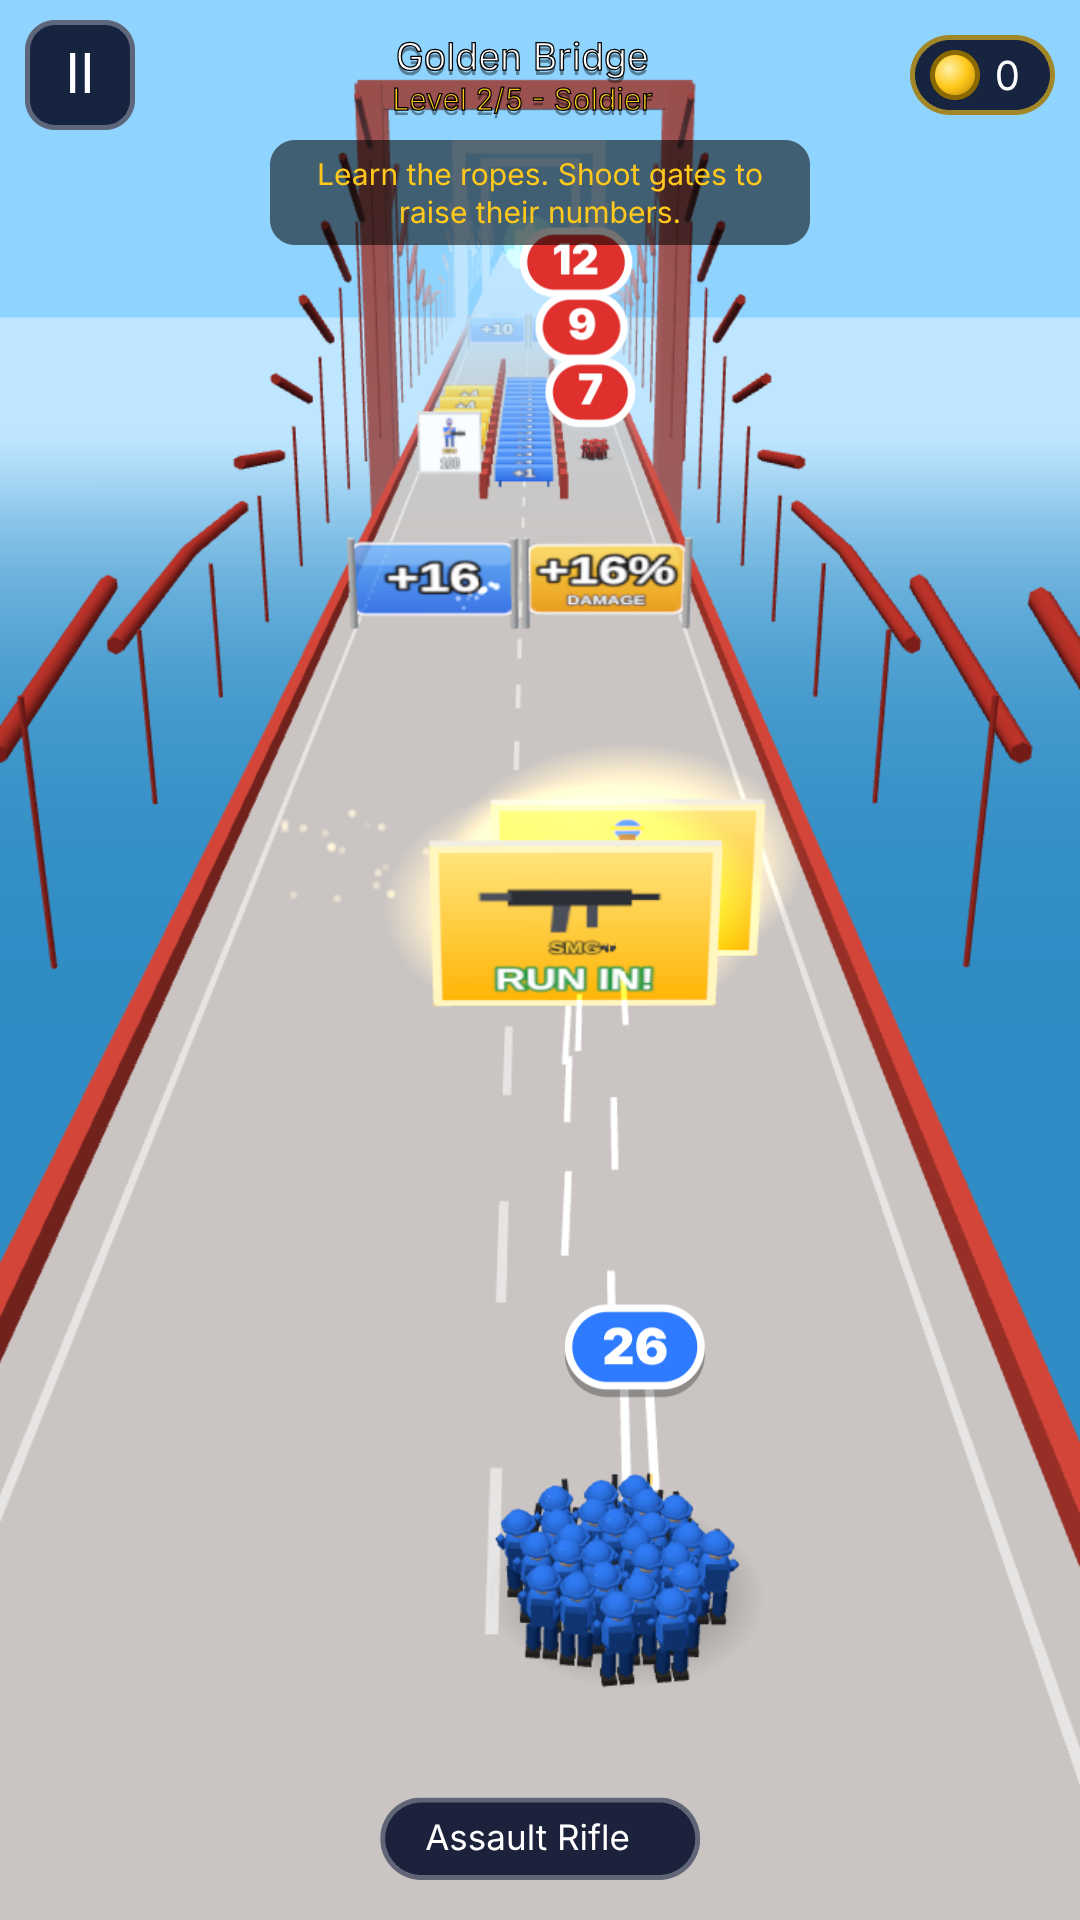
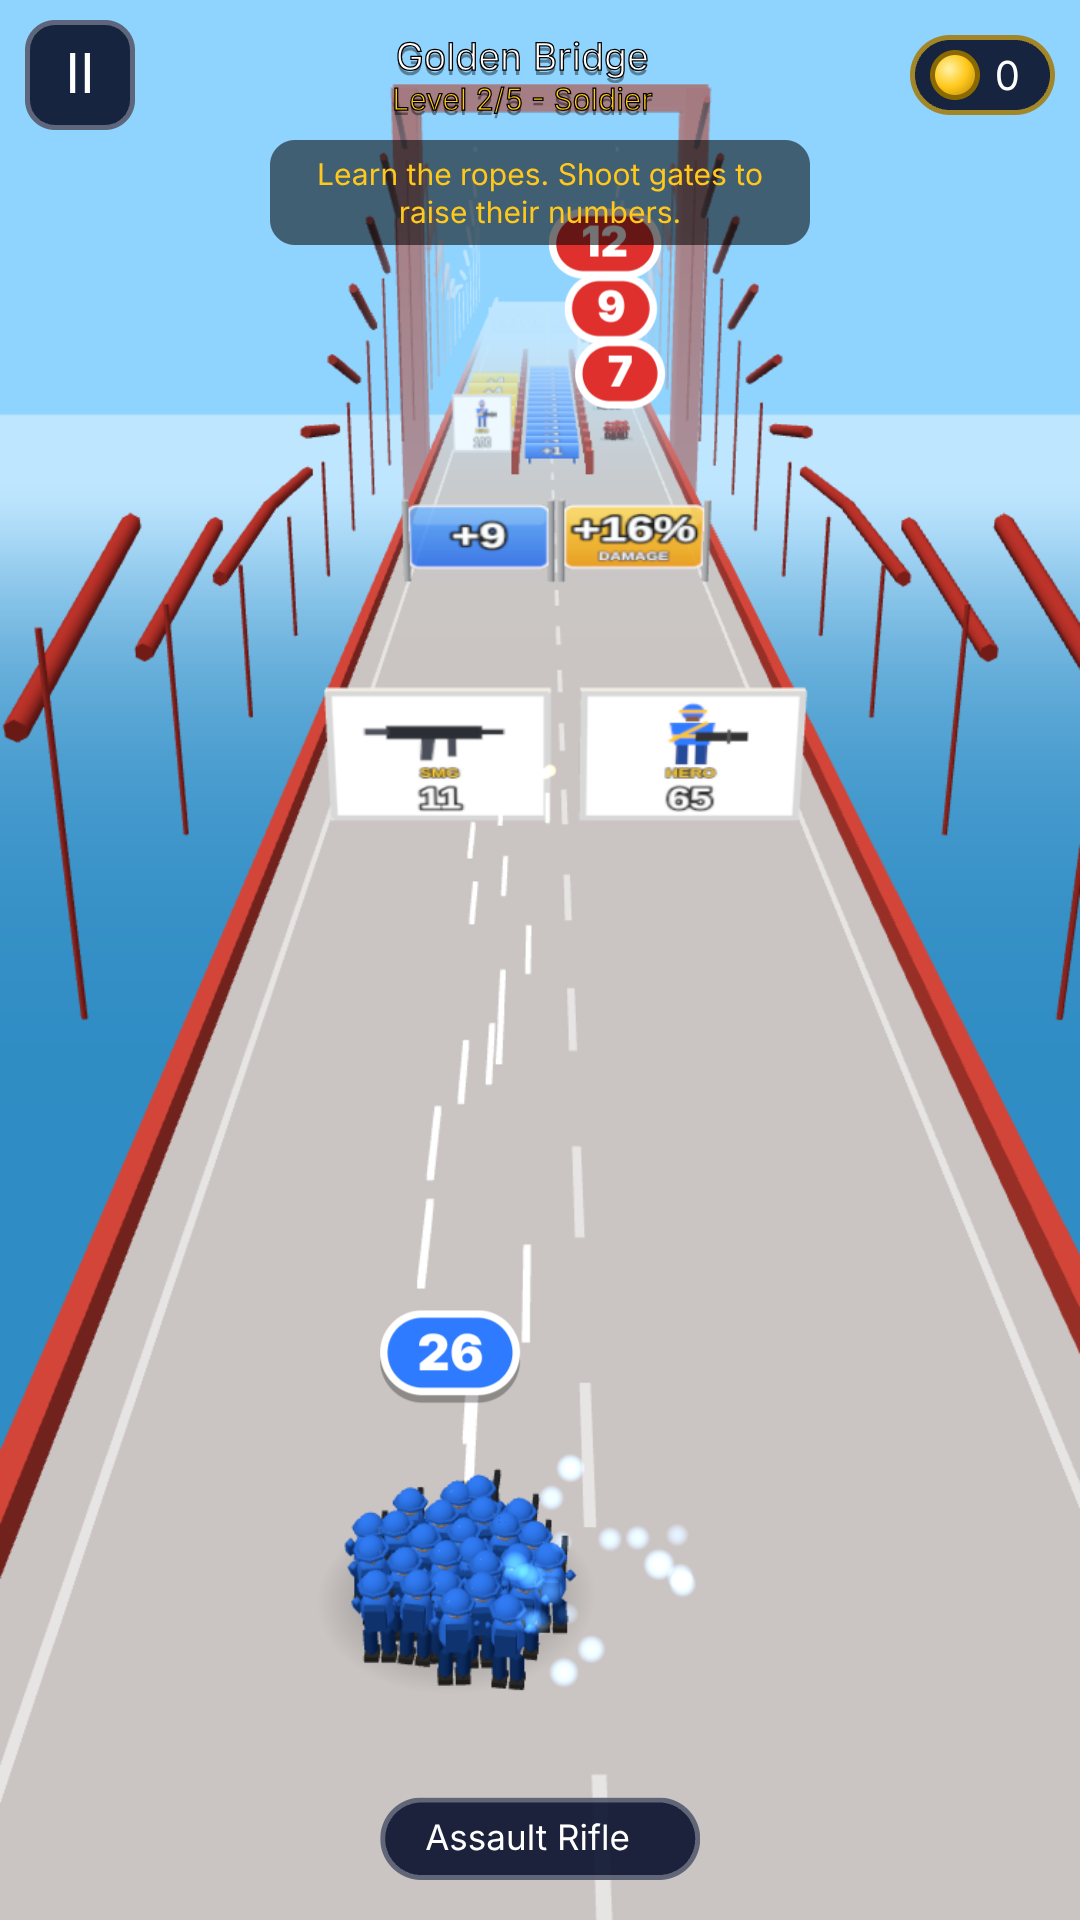
Army Rush: rendering performance pass
- Don't draw entities beyond the fog; camera far plane follows the fog
- Textured boxes (boards, walls, +N blocks) use 2 draw calls instead of 6
- Slightly shorter fog on the three longest-view worlds
- Measured in headless Chromium: 51-113 draw calls per frame (was 248-393)
- Refreshed store screenshots; PLAY button text when everything is cleared

Claude-Session: https://claude.ai/code/session_014WJcLgqD5bPw1zJdrNBbJ9

diff --git a/game/src/render.js b/game/src/render.js
@@ -62,6 +62,21 @@ function soldierGeometries() {
   return { tinted, fixed };
 }
 
+// A box whose +z face shows a texture: 2 draw calls (sides + front) instead of the 6 that a
+// six-material box costs. Index order is rebuilt so the front face is one group at the end.
+function frontBox(w, h, d, sideMat, frontMat) {
+  const g = new THREE.BoxGeometry(w, h, d);
+  const idx = g.index.array;
+  const order = [0, 1, 2, 3, 5, 4]; // px, nx, py, ny, nz, then pz (front)
+  const out = [];
+  for (const f of order) for (let i = 0; i < 6; i++) out.push(idx[f * 6 + i]);
+  g.setIndex(out);
+  g.clearGroups();
+  g.addGroup(0, 30, 0);
+  g.addGroup(30, 6, 1);
+  return new THREE.Mesh(g, [sideMat, frontMat]);
+}
+
 function textCanvas(w, h) {
   const c = document.createElement('canvas');
   c.width = w;
@@ -184,6 +199,10 @@ export class Renderer {
     const scene = this.scene;
     scene.background = new THREE.Color(world.sky);
     scene.fog = new THREE.Fog(world.fog, world.fogNear, world.fogFar);
+    // nothing past the fog is visible, so don't draw it (big draw-call saving on phones)
+    this.viewDist = Math.min(world.fogFar + 10, 200);
+    this.camera.far = this.viewDist + 40;
+    this.camera.updateProjectionMatrix();
     const hemi = new THREE.HemisphereLight(0xffffff, 0x556070, 1.5 * world.light);
     const sun = new THREE.DirectionalLight(0xfff4e0, 1.9 * world.light);
     sun.position.set(-5, 12, 4);
@@ -329,7 +348,7 @@ export class Renderer {
         const tex = new THREE.CanvasTexture(canvas);
         tex.colorSpace = THREE.SRGBColorSpace;
         const side = new THREE.MeshLambertMaterial({ color: 0xf2f2f2 });
-        const panel = new THREE.Mesh(new THREE.BoxGeometry(w - 0.3, 3.2, 0.3), [side, side, side, side, new THREE.MeshBasicMaterial({ map: tex }), side]);
+        const panel = frontBox(w - 0.3, 3.2, 0.3, side, new THREE.MeshBasicMaterial({ map: tex }));
         panel.position.set(cx, 1.65, 0);
         g.add(panel);
         Object.assign(v, { canvas, tex, panel, cx });
@@ -372,7 +391,7 @@ export class Renderer {
         tex.colorSpace = THREE.SRGBColorSpace;
         const col = { temple: 0x7a6e58, frozen: 0xbfe6ff, volcano: 0x4a3530, neon: 0x3a3456, lunar: 0x7a7c86, desert: 0xb27a42 }[world.props] || 0x9a8a7a;
         const sideMat = new THREE.MeshLambertMaterial({ color: col });
-        const wall = new THREE.Mesh(new THREE.BoxGeometry(w, 2.2, 1), [sideMat, sideMat, sideMat, sideMat, new THREE.MeshBasicMaterial({ map: tex }), sideMat]);
+        const wall = frontBox(w, 2.2, 1, sideMat, new THREE.MeshBasicMaterial({ map: tex }));
         wall.position.set(cx, 1.1, 0);
         g.add(wall);
         Object.assign(v, { canvas, tex, wallColor: col, cx });
@@ -402,7 +421,7 @@ export class Renderer {
         });
         const sideMat = new THREE.MeshLambertMaterial({ color: e.big ? 0xf2b400 : 0x2a6af0 });
         const h = e.big ? 1.3 : 0.85;
-        const m = new THREE.Mesh(new THREE.BoxGeometry(w, h, 0.35), [sideMat, sideMat, sideMat, sideMat, new THREE.MeshBasicMaterial({ map: tex }), sideMat]);
+        const m = frontBox(w, h, 0.35, sideMat, new THREE.MeshBasicMaterial({ map: tex }));
         m.position.set(cx, h / 2 + 0.25, 0);
         const legs = new THREE.Mesh(mergeGeometries([
           new THREE.BoxGeometry(0.12, 0.3, 0.5).translate(cx - w / 2 + 0.25, 0.15, 0),
@@ -922,7 +941,7 @@ export class Renderer {
     for (const v of this.views.values()) {
       const e = v.e;
       const dz = -e.d - camZ;
-      const inView = dz < 25 && dz > -200;
+      const inView = dz < 25 && dz > -this.viewDist;
       if (e.type === 'squad') {
         const show = e.alive && inView;
         if (show) this.placeLabel(v.label, e.x, 1.4 + armyRadius(e.m) * 0.3, -e.d, fmt(e.m), true);
@@ -975,6 +994,7 @@ export class Renderer {
           v.label.classList.toggle('open', !!e.unlocked);
         } else v.label.style.display = 'none';
       }
+      v.g.visible = inView;
       if (!inView) continue;
       if (e.dirty && t - (v.lastDraw || 0) > 0.08) {
         e.dirty = false;

diff --git a/game/src/data.js b/game/src/data.js
@@ -21,7 +21,7 @@ export const weaponDps = (w) => w.dmg * w.rate * (w.pellets || 1) * (1 + (w.pier
 export const WORLDS = [
   {
     id: 'bridge', name: 'Golden Bridge', tagline: 'Storm the great red bridge',
-    sky: 0x8fd3ff, fog: 0xbfe6ff, fogNear: 60, fogFar: 230, ground: 0x2f8fd0, track: 0xc9c9cf, rail: 0xd2463c,
+    sky: 0x8fd3ff, fog: 0xbfe6ff, fogNear: 55, fogFar: 185, ground: 0x2f8fd0, track: 0xc9c9cf, rail: 0xd2463c,
     light: 1.0, props: 'bridge', enemy: 0xe0302e, boss: { name: 'Red Brute', color: 0xd0302a, accent: 0x6b1b17, eye: 0xffee55, horns: false, mech: false },
     mod: {}, desc: 'Learn the ropes. Shoot gates to raise their numbers.',
   },
@@ -57,13 +57,13 @@ export const WORLDS = [
   },
   {
     id: 'sky', name: 'Sky Fortress', tagline: 'Crosswinds push you around',
-    sky: 0x6fb6ff, fog: 0xdcefff, fogNear: 50, fogFar: 220, ground: 0xffffff, track: 0xb6b2a8, rail: 0xe0c060,
+    sky: 0x6fb6ff, fog: 0xdcefff, fogNear: 45, fogFar: 185, ground: 0xffffff, track: 0xb6b2a8, rail: 0xe0c060,
     light: 1.1, props: 'sky', enemy: 0xb02020, boss: { name: 'Storm Warlord', color: 0x4a4f7a, accent: 0xffd34a, eye: 0x9ae6ff, horns: true, mech: false },
     mod: { wind: true, saws: true }, desc: 'Crosswinds drag your army toward the edge.',
   },
   {
     id: 'lunar', name: 'Lunar Base', tagline: 'Final war on the Moon',
-    sky: 0x02030a, fog: 0x05060f, fogNear: 60, fogFar: 240, ground: 0x8a8a90, track: 0x55575f, rail: 0x2bf0a0,
+    sky: 0x02030a, fog: 0x05060f, fogNear: 55, fogFar: 200, ground: 0x8a8a90, track: 0x55575f, rail: 0x2bf0a0,
     light: 0.9, props: 'lunar', enemy: 0x7cff4a, boss: { name: 'Alien Overlord', color: 0x3ad06a, accent: 0x1a5a2a, eye: 0xff2bd6, horns: true, mech: false },
     mod: { shield: 1.3, geysers: true, saws: true, boardWeight: 2 }, desc: 'Everything at once. Only the strongest army survives.',
   },

diff --git a/game/src/main.js b/game/src/main.js
@@ -153,7 +153,7 @@ function renderStats() {
 
 function renderMenu() {
   const n = nextLevel();
-  $('#play-sub').textContent = `${WORLDS[n.wi].name} - Level ${n.li + 1}`;
+  $('#play-sub').textContent = save.progress >= TOTAL_LEVELS ? 'All worlds cleared! Replay the final battle' : `${WORLDS[n.wi].name} - Level ${n.li + 1}`;
   diffButtons($('#menu-diff'));
 }
 
@@ -573,4 +573,4 @@ checkDaily();
 requestAnimationFrame(frame);
 
 // expose for automated testing
-window.__game = { get sim() { return sim; }, startLevel, get save() { return save; }, setAutoplay: (v) => (autoplay = v), setTarget: (x) => (targetX = x), botTarget };
+window.__game = { get sim() { return sim; }, renderer, startLevel, get save() { return save; }, setAutoplay: (v) => (autoplay = v), setTarget: (x) => (targetX = x), botTarget };
